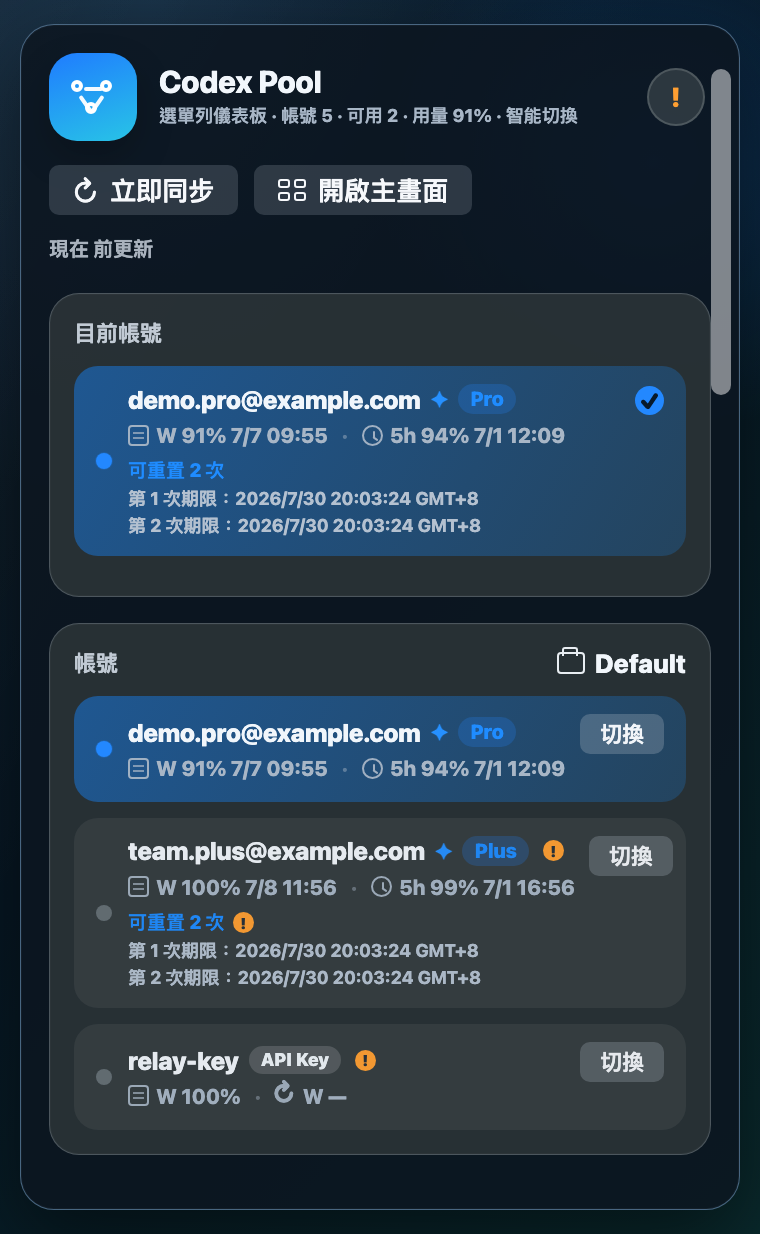
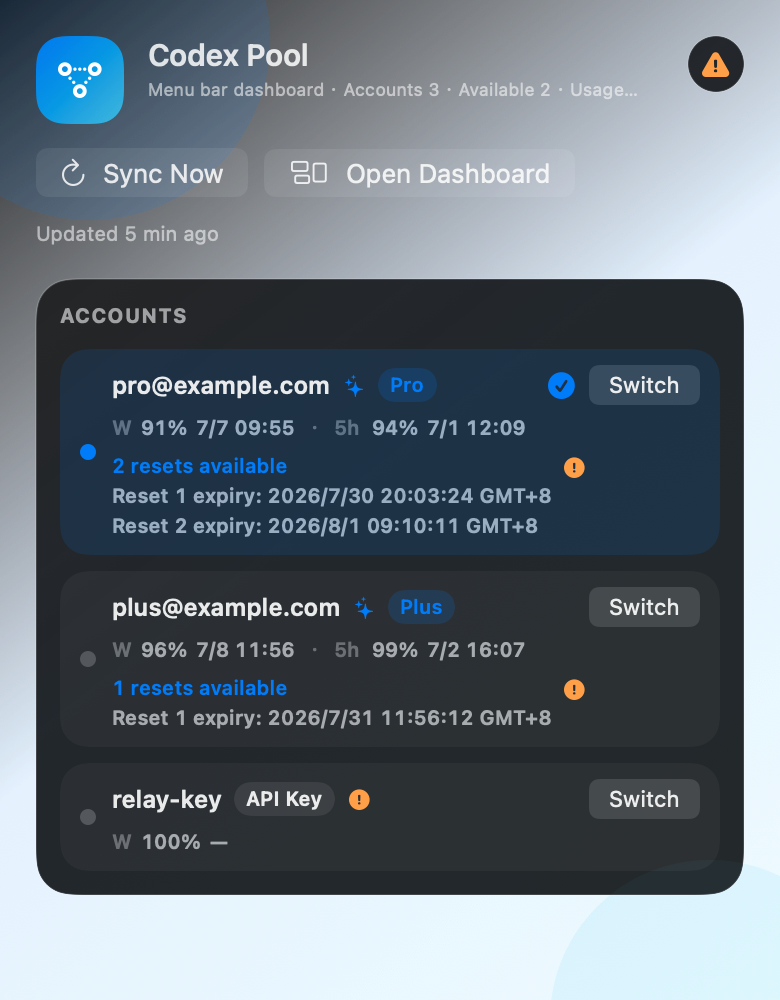
docs: add localized menu bar screenshots

diff --git a/CodexPoolManagerTests/ReadmeMenuBarScreenshotGenerationTests.swift b/CodexPoolManagerTests/ReadmeMenuBarScreenshotGenerationTests.swift
@@ -1,0 +1,326 @@
+import AppKit
+import Foundation
+import SwiftUI
+import Testing
+@testable import CodexPoolManager
+
+// README screenshots must come from the real SwiftUI menu bar dashboard view.
+// To regenerate from the repo root:
+//
+//   touch .generate-readme-menu-bar-screenshots
+//   xcodebuild test -project CodexPoolManager.xcodeproj -scheme CodexPoolManager \
+//     -destination 'platform=macOS' \
+//     '-only-testing:CodexPoolManagerTests/ReadmeMenuBarScreenshotGenerationTests/generatesLocalizedMenuBarScreenshotsWhenRequested()'
+//   rm -f .generate-readme-menu-bar-screenshots
+//
+@MainActor
+struct ReadmeMenuBarScreenshotGenerationTests {
+    private static let generationFlag = "CODEX_POOL_GENERATE_README_SCREENSHOTS"
+    private static let outputDirectoryOverride = "CODEX_POOL_README_SCREENSHOT_OUTPUT_DIR"
+    private static let generationMarkerFileName = ".generate-readme-menu-bar-screenshots"
+
+    @Test
+    func generatesLocalizedMenuBarScreenshotsWhenRequested() throws {
+        guard ProcessInfo.processInfo.environment[Self.generationFlag] == "1"
+            || FileManager.default.fileExists(atPath: Self.generationMarkerURL.path)
+        else {
+            return
+        }
+
+        let outputDirectory = Self.outputDirectory()
+        try FileManager.default.createDirectory(
+            at: outputDirectory,
+            withIntermediateDirectories: true
+        )
+
+        let previousLanguage = UserDefaults.standard.object(forKey: L10n.languageOverrideKey)
+        let previousTimeZone = NSTimeZone.default
+        defer {
+            if let previousLanguage {
+                UserDefaults.standard.set(previousLanguage, forKey: L10n.languageOverrideKey)
+            } else {
+                UserDefaults.standard.removeObject(forKey: L10n.languageOverrideKey)
+            }
+            NSTimeZone.default = previousTimeZone
+        }
+
+        let taipei = try #require(TimeZone(identifier: "Asia/Taipei"))
+        NSTimeZone.default = taipei
+
+        for locale in ScreenshotLocale.allCases {
+            UserDefaults.standard.set(locale.languageCode, forKey: L10n.languageOverrideKey)
+            let model = AppPoolRuntimeModel(
+                store: ReadmeScreenshotStore(snapshot: Self.mockState.snapshot),
+                initialState: Self.mockState,
+                syncTimeoutNanoseconds: 1,
+                menuBarClockIntervalNanoseconds: 0,
+                menuBarNowProvider: { Self.referenceNow },
+                widgetPublisher: { _ in },
+                syncRunner: { state, viewState in
+                    PoolDashboardUsageSyncFlowCoordinator.Output(
+                        state: state,
+                        viewState: viewState
+                    )
+                },
+                officialSwitchRunner: { _ in .success("mock") },
+                relaySwitchRunner: { _ in .success("mock") },
+                defaults: Self.isolatedDefaults()
+            )
+            model.bootstrapIfNeeded()
+
+            let view = MenuBarDashboardView(
+                runtimeModel: model,
+                openDashboard: {},
+                switchAccount: { _ in }
+            )
+            .environment(\.locale, L10n.locale(for: locale.languageCode))
+            .preferredColorScheme(.dark)
+
+            let data = try Self.renderPNG(
+                view,
+                size: CGSize(width: 390, height: 500)
+            )
+            try data.write(to: outputDirectory.appendingPathComponent(locale.fileName))
+        }
+    }
+
+    private static var mockState: AccountPoolState {
+        AccountPoolState(snapshot: AccountPoolSnapshot(
+            accounts: mockAccounts,
+            groups: [AgentAccount.defaultGroupName],
+            activities: [],
+            mode: .manual,
+            activeAccountID: activeAccountID,
+            manualAccountID: activeAccountID,
+            focusLockedAccountID: nil,
+            minSwitchInterval: 300,
+            lowUsageThresholdRatio: 0.15,
+            lowUsageAlertsEnabled: true,
+            minUsageRatioDeltaToSwitch: 0,
+            lastSwitchAt: nil,
+            lastUsageSyncAt: referenceNow.addingTimeInterval(-5 * 60),
+            switchWithoutLaunching: false,
+            autoSyncEnabled: false,
+            autoSyncIntervalSeconds: 30
+        ))
+    }
+
+    private static var mockAccounts: [AgentAccount] {
+        [
+            AgentAccount(
+                id: activeAccountID,
+                createdAt: date(year: 2026, month: 6, day: 20, hour: 10, minute: 0),
+                name: "[email redacted]",
+                groupName: "Default",
+                usedUnits: 90,
+                quota: 1000,
+                apiToken: "mock-token-pro",
+                email: "[email redacted]",
+                chatGPTAccountID: "acct_demo_pro",
+                usageWindowName: "weekly",
+                usageWindowResetAt: date(year: 2026, month: 7, day: 7, hour: 9, minute: 55),
+                primaryUsagePercent: 6,
+                primaryUsageResetAt: date(year: 2026, month: 7, day: 1, hour: 12, minute: 9),
+                isPaid: true,
+                planType: "pro",
+                rateLimitResetCreditsAvailableCount: 2,
+                rateLimitResetCreditsEstimatedExpiresAt: date(year: 2026, month: 7, day: 30, hour: 20, minute: 3, second: 24),
+                rateLimitResetCreditEstimatedExpiries: [
+                    date(year: 2026, month: 7, day: 30, hour: 20, minute: 3, second: 24),
+                    date(year: 2026, month: 8, day: 1, hour: 9, minute: 10, second: 11)
+                ]
+            ),
+            AgentAccount(
+                id: UUID(uuidString: "22222222-2222-2222-2222-222222222222")!,
+                createdAt: date(year: 2026, month: 6, day: 21, hour: 10, minute: 0),
+                name: "[email redacted]",
+                groupName: "Default",
+                usedUnits: 40,
+                quota: 1000,
+                apiToken: "mock-token-plus",
+                email: "[email redacted]",
+                chatGPTAccountID: "acct_demo_plus",
+                usageWindowName: "weekly",
+                usageWindowResetAt: date(year: 2026, month: 7, day: 8, hour: 11, minute: 56),
+                primaryUsagePercent: 1,
+                primaryUsageResetAt: date(year: 2026, month: 7, day: 2, hour: 16, minute: 7),
+                isPaid: true,
+                planType: "plus",
+                rateLimitResetCreditsAvailableCount: 1,
+                rateLimitResetCreditsEstimatedExpiresAt: date(year: 2026, month: 7, day: 31, hour: 11, minute: 56, second: 12),
+                rateLimitResetCreditEstimatedExpiries: [
+                    date(year: 2026, month: 7, day: 31, hour: 11, minute: 56, second: 12)
+                ]
+            ),
+            AgentAccount(
+                id: UUID(uuidString: "33333333-3333-3333-3333-333333333333")!,
+                createdAt: date(year: 2026, month: 6, day: 22, hour: 10, minute: 0),
+                name: "relay-key",
+                groupName: "Default",
+                usedUnits: 0,
+                quota: 100,
+                apiToken: "mock-relay-key",
+                credentialType: .relayAPIKey,
+                relayProviderID: "mock",
+                relayProviderName: "Mock Relay",
+                relayBaseURL: "https://relay.example.com",
+                isPaid: false,
+                usageSyncError: AgentAccount.relayUsageSyncUnavailableReason
+            )
+        ]
+    }
+
+    private static let activeAccountID = UUID(uuidString: "11111111-1111-1111-1111-111111111111")!
+    private static let referenceNow = date(year: 2026, month: 7, day: 3, hour: 0, minute: 0)
+
+    private static func renderPNG<V: View>(
+        _ rootView: V,
+        size: CGSize
+    ) throws -> Data {
+        let hostingView = NSHostingView(rootView: rootView)
+        hostingView.frame = CGRect(origin: .zero, size: size)
+        hostingView.appearance = NSAppearance(named: .darkAqua)
+
+        let window = NSWindow(
+            contentRect: CGRect(origin: .zero, size: size),
+            styleMask: [.borderless],
+            backing: .buffered,
+            defer: false
+        )
+        window.contentView = hostingView
+        window.appearance = NSAppearance(named: .darkAqua)
+        window.backgroundColor = .windowBackgroundColor
+        window.orderBack(nil)
+        defer { window.orderOut(nil) }
+
+        hostingView.layoutSubtreeIfNeeded()
+        window.displayIfNeeded()
+        RunLoop.main.run(until: Date().addingTimeInterval(0.2))
+        hostingView.layoutSubtreeIfNeeded()
+        window.displayIfNeeded()
+
+        let bounds = hostingView.bounds
+        guard let bitmap = hostingView.bitmapImageRepForCachingDisplay(in: bounds) else {
+            throw CocoaError(.fileWriteUnknown)
+        }
+        hostingView.cacheDisplay(in: bounds, to: bitmap)
+
+        guard let data = bitmap.representation(using: .png, properties: [:]) else {
+            throw CocoaError(.fileWriteUnknown)
+        }
+        return data
+    }
+
+    private static func date(
+        year: Int,
+        month: Int,
+        day: Int,
+        hour: Int,
+        minute: Int,
+        second: Int = 0
+    ) -> Date {
+        var calendar = Calendar(identifier: .gregorian)
+        calendar.timeZone = TimeZone(identifier: "Asia/Taipei")!
+        return calendar.date(from: DateComponents(
+            year: year,
+            month: month,
+            day: day,
+            hour: hour,
+            minute: minute,
+            second: second
+        ))!
+    }
+
+    private static func outputDirectory() -> URL {
+        if let override = ProcessInfo.processInfo.environment[outputDirectoryOverride],
+           !override.trimmingCharacters(in: .whitespacesAndNewlines).isEmpty {
+            return URL(fileURLWithPath: override)
+        }
+
+        return URL(fileURLWithPath: #filePath)
+            .deletingLastPathComponent()
+            .deletingLastPathComponent()
+            .appendingPathComponent("docs/images")
+    }
+
+    private static var generationMarkerURL: URL {
+        URL(fileURLWithPath: #filePath)
+            .deletingLastPathComponent()
+            .deletingLastPathComponent()
+            .appendingPathComponent(generationMarkerFileName)
+    }
+
+    private static func isolatedDefaults() -> UserDefaults {
+        let suiteName = "CodexPoolManager.ReadmeScreenshot.\(UUID().uuidString)"
+        let defaults = UserDefaults(suiteName: suiteName)!
+        defaults.removePersistentDomain(forName: suiteName)
+        defaults.set(true, forKey: MenuBarAccountOrderSettings.activeAccountFirstKey)
+        defaults.set(true, forKey: MenuBarAccountOrderSettings.paidAccountFirstKey)
+        defaults.set(true, forKey: MenuBarAccountOrderSettings.apiKeyAccountLastKey)
+        return defaults
+    }
+}
+
+private enum ScreenshotLocale: CaseIterable {
+    case english
+    case traditionalChinese
+    case simplifiedChinese
+    case french
+    case spanish
+    case japanese
+    case korean
+
+    var languageCode: String {
+        switch self {
+        case .english:
+            "en"
+        case .traditionalChinese:
+            "zh-Hant"
+        case .simplifiedChinese:
+            "zh-Hans"
+        case .french:
+            "fr"
+        case .spanish:
+            "es"
+        case .japanese:
+            "ja"
+        case .korean:
+            "ko"
+        }
+    }
+
+    var fileName: String {
+        switch self {
+        case .english:
+            "menu-bar.png"
+        case .traditionalChinese:
+            "menu-bar.zh-Hant.png"
+        case .simplifiedChinese:
+            "menu-bar.zh-Hans.png"
+        case .french:
+            "menu-bar.fr.png"
+        case .spanish:
+            "menu-bar.es.png"
+        case .japanese:
+            "menu-bar.ja.png"
+        case .korean:
+            "menu-bar.ko.png"
+        }
+    }
+}
+
+private final class ReadmeScreenshotStore: AccountPoolStoring {
+    private var snapshot: AccountPoolSnapshot?
+
+    init(snapshot: AccountPoolSnapshot?) {
+        self.snapshot = snapshot
+    }
+
+    func load() -> AccountPoolSnapshot? {
+        snapshot
+    }
+
+    func save(_ snapshot: AccountPoolSnapshot) {
+        self.snapshot = snapshot
+    }
+}

diff --git a/README.es.md b/README.es.md
@@ -45,7 +45,7 @@ Todas las capturas usan datos de prueba o no sensibles.
 
 ### Estado en barra de menú (datos de prueba)
 
-![Estado de la barra de menú (datos de prueba)](docs/images/menu-bar.png)
+![Estado de la barra de menú (datos de prueba)](docs/images/menu-bar.es.png)
 
 ### Widget (estado vacío, datos de prueba)
 

diff --git a/README.fr.md b/README.fr.md
@@ -45,7 +45,7 @@ Toutes les captures ci-dessous utilisent des données de test ou non sensibles.
 
 ### Barre de menu (données de test)
 
-![État de la barre de menu (données de test)](docs/images/menu-bar.png)
+![État de la barre de menu (données de test)](docs/images/menu-bar.fr.png)
 
 ### Widget (état vide, données de test)
 

diff --git a/README.ja.md b/README.ja.md
@@ -45,7 +45,7 @@ Codex Pool Manager は、Codex/OpenAI OAuth アカウントのプールを 1 つ
 
 ### メニューバー表示（モックデータ）
 
-![メニューバー表示（モックデータ）](docs/images/menu-bar.png)
+![メニューバー表示（モックデータ）](docs/images/menu-bar.ja.png)
 
 ### Widget（空状態サンプル / モックデータ）
 

diff --git a/README.zh-Hans.md b/README.zh-Hans.md
@@ -45,7 +45,7 @@ Codex Pool Manager 是一款 macOS 工具，让你在同一个控制面板里管
 
 ### 菜单栏状态（模拟数据）
 
-![菜单栏状态（模拟数据）](docs/images/menu-bar.png)
+![菜单栏状态（模拟数据）](docs/images/menu-bar.zh-Hans.png)
 
 ### Widget（空状态示例，模拟状态）
 

diff --git a/README.zh-Hant.md b/README.zh-Hant.md
@@ -45,7 +45,7 @@ Codex Pool Manager 是一款 macOS 工具，讓你在同一個控制面板中管
 
 ### 選單列狀態（模擬資料）
 
-![選單列狀態（模擬資料）](docs/images/menu-bar.png)
+![選單列狀態（模擬資料）](docs/images/menu-bar.zh-Hant.png)
 
 ### Widget（空狀態範例，模擬狀態）
 